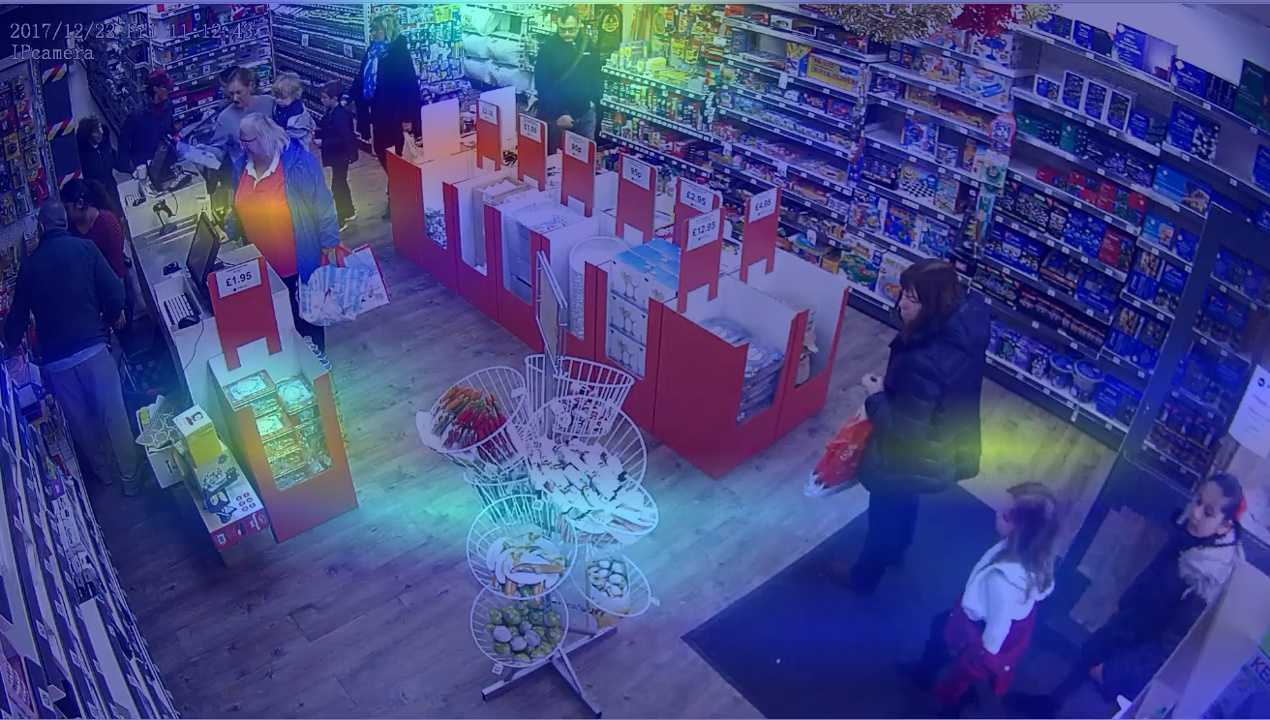
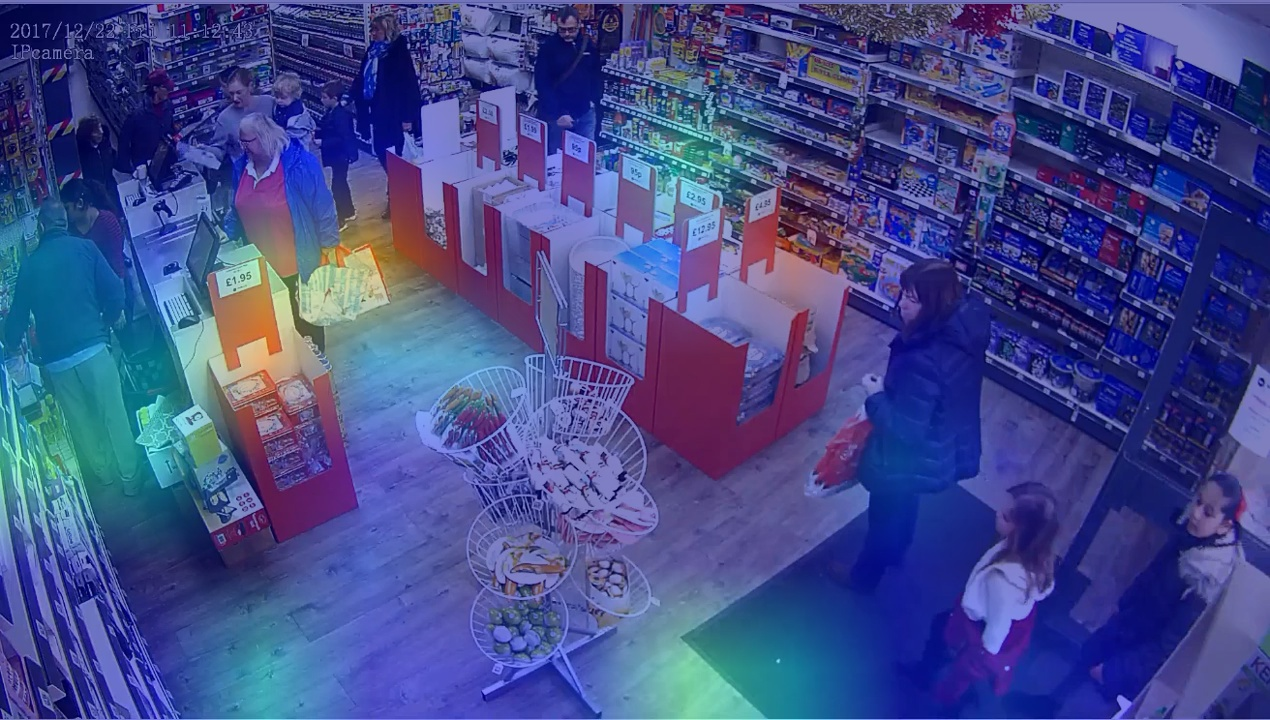
Updated api to return images of heatmap and trayectories

diff --git a/ImageProcessor/Utils/PersonDetector.py b/ImageProcessor/Utils/PersonDetector.py
@@ -102,7 +102,7 @@ class PersonDetector:
     
     def get_detections(self, frame):
         if self.w is None or self.h is None:
-            self.h, self.w, _ = frame.shape
+            self.h, self.w = frame.shape[:2]  
             self.img = frame.copy()
             print(self.h, self.w)
         tracks = self.det_model.track(frame, persist=True, show=False, classes=[0], tracker='bytetrack.yaml', verbose=False)   
@@ -115,7 +115,11 @@ class PersonDetector:
                 # track_id = out.track_id/
                 center = (int((x1 + x2) / 2), int((y1 + y2) / 2))
                 center_feet = (int((x1 + x2) / 2), y2)
-                self.points.append(center)
+                center_feet_flipped = (int((x1 + x2) / 2), self.h - y2)
+                # print(center_feet)
+                self.points.append(center_feet)
+                #draw a point in the cente
+                # cv2.circle(self.img, center_feet, 10, (0, 0, 255), -1)
                 track_id = box.id.int().item()
                 self.paths[track_id].append(center_feet)
                 cv2.putText(frame, str(track_id), (x1, y1), cv2.FONT_HERSHEY_SIMPLEX, 1, (0, 255, 0), 2)
@@ -126,7 +130,8 @@ class PersonDetector:
     def get_common_paths(self):
         # print(self.paths)
         if len(self.paths) == 0:
-            return None
+            return self.img
+        
         paths_list = list(self.paths.values())
 
         # skip every 10 points of each path
@@ -201,58 +206,105 @@ class PersonDetector:
         # for i, path in enumerate(self.paths):
         #     print(f"Path {i+1} is in cluster {labels[i]}")
 
+        return copy_img
+
 
     def get_heatmap(self):
-        print("Headmat")
-        print(len(self.points))
-        if len(self.points) == 0 or self.w is None or self.h is None:
+        # print("Headmat")
+        # print(len(self.points))
+        if self.img is None:
             return None
+        
+        image = self.img.copy()
+        self.h, self.w = image.shape[:2] 
+
+        if len(self.points) == 0 or self.w is None or self.h is None:
+            return image
         
         data = np.array(self.points)
 
         # Define the gri`d size
         bin_size_factor = 100
-        grid_size = [self.h, self.w]
+        # grid_size = [self.h, self.w]
         adjusted_h = int(self.h / bin_size_factor)
         adjusted_w = int(self.w / bin_size_factor)
 
         # Create a 2D histogram
+        # heatmap, xedges, yedges = np.histogram2d(
+        #     data[:, 0], data[:, 1],
+        #     bins=[adjusted_h, adjusted_w],
+        #     range=[[0, self.w], [0, self.h]]
+        # )
+
         heatmap, xedges, yedges = np.histogram2d(
-            data[:, 0], data[:, 1],
-            bins=[adjusted_w, adjusted_h],
-            range=[[0, max(data[:, 0])], [0, max(data[:, 1])]]
+            data[:, 1], data[:, 0],
+            bins=[adjusted_h, adjusted_w],  # Set bins equal to image dimensions
+            range=[[0, self.h], [0, self.w]]  # Ensure range covers the full image
         )
 
-        image = self.img.copy()
+        print("hsize", heatmap.shape)
+        print("imagesize", image.shape)
         heatmap_data = cv2.normalize(heatmap, None, 0, 1, cv2.NORM_MINMAX)
-
-        # Convert heatmap to color map (heatmap is in grayscale format)
         heatmap_colored = cv2.applyColorMap((heatmap_data * 255).astype(np.uint8), cv2.COLORMAP_JET)
 
         # Resize heatmap to match the original image size if necessary
         if heatmap_colored.shape[0] != image.shape[0] or heatmap_colored.shape[1] != image.shape[1]:
+            print("No MATR")
             heatmap_colored = cv2.resize(heatmap_colored, (image.shape[1], image.shape[0]))
 
         # Blend heatmap with original image
         alpha = 0.5  # Transparency level of the heatmap
         overlay = cv2.addWeighted(heatmap_colored, alpha, image, 1 - alpha, 0)
+        # heatmap = np.zeros((self.h, self.w), dtype=np.float32)
+
+        # radius = 20  # Increase this to make the points larger
+        # # Normalize the heatmap
+        # heatmap = cv2.normalize(heatmap, None, 0, 1, cv2.NORM_MINMAX)
+
+        # # Convert heatmap to color map
+        # heatmap_colored = cv2.applyColorMap((heatmap * 255).astype(np.uint8), cv2.COLORMAP_JET)
+
+        # # Optionally overlay the heatmap onto the original image
+        # overlay = cv2.addWeighted(image, 0.6, heatmap_colored, 0.4, 0)
+
+# Draw a circle for each point on the heatmap
+        # for point in self.points:
+        #     x, y = int(point[0]), int(point[1])
+        #     cv2.circle(heatmap, (x, y), radius, 1, thickness=-1)
+        #     # append additional points inside the radius if possible
+        #     for i in range(-radius, radius):
+        #         for j in range(-radius, radius):
+        #             if x + i >= 0 and x + i < self.w and y + j >= 0 and y + j < self.h:
+        #                 self.points.append((x + i, y + j))
+        # for point in data:
+        #     x, y = int(point[0]), int(point[1])
+        #     cv2.circle(heatmap, (x, y), radius, 1, thickness=-1)  # Filled circle
+        #     # append additional points inside the radius if possible
+        #     for i in range(-radius, radius):
+        #         for j in range(-radius, radius):
+        #             if x + i >= 0 and x + i < self.w and y + j >= 0 and y + j < self.h:
+        #                 cv2.circle(heatmap, (x + i, y + j), 1, 1, thickness=-1)
+
+
+        
 
         # Save or show the result
         cv2.imwrite('image_with_heatmap_overlay.jpg', overlay)
+        return overlay
 
         # Plot the heatmap
-        plt.figure(figsize=(8, 6))
-        plt.imshow(heatmap.T, origin='lower', cmap='YlGnBu', interpolation='nearest')
-        plt.colorbar(label='Frequency')
-        plt.xlabel('X coordinate')
-        plt.ylabel('Y coordinate')
-        plt.title('Heatmap of Most Visited Zones') 
-        plt.gca().invert_yaxis()
-        plt.savefig("heatmap.jpg")
-        print("done")
+        # plt.figure(figsize=(8, 6))
+        # plt.imshow(heatmap.T, origin='lower', cmap='YlGnBu', interpolation='nearest')
+        # plt.colorbar(label='Frequency')
+        # plt.xlabel('X coordinate')
+        # plt.ylabel('Y coordinate')
+        # plt.title('Heatmap of Most Visited Zones') 
+        # plt.gca().invert_yaxis()
+        # plt.savefig("heatmap.jpg")
+        # print("done")
 
-        #return heatmap image as numpy array
-        return "done"
+        # #return heatmap image as numpy array
+        # return "done"
 
 
 PersonDetector()

diff --git a/main.py b/main.py
@@ -1,4 +1,4 @@
-from fastapi import FastAPI
+from fastapi import FastAPI, Response
 from ImageProcessor.ImageProcessor import ImageProcessor
 from fastapi.responses import StreamingResponse
 import uvicorn
@@ -19,6 +19,14 @@ def generate_frames(view):
         yield (b'--frame\r\n'
                b'Content-Type: image/jpeg\r\n\r\n' + frame_bytes + b'\r\n')
 
+def get_heatmap():
+    frame_bytes = image_processor.get_heatmap()
+    if frame_bytes is None:
+        return None
+    yield (b'--frame\r\n'
+              b'Content-Type: image/jpeg\r\n\r\n' + frame_bytes + b'\r\n')
+    # return image_processor.get_heatmap()
+
 @app.get("/video_feed")
 async def video_feed():
     return StreamingResponse(generate_frames(1), media_type='multipart/x-mixed-replace; boundary=frame')
@@ -29,11 +37,15 @@ async def aisle_view():
 
 @app.get("/get_heatmap")
 async def get_heatmap():
-    return image_processor.get_heatmap()
+    # return image_processor.get_heatmap as encoded image
 
-@app.get("/get_common_paths")
-async def get_common_paths():
-    return image_processor.get_common_paths()
+    result = image_processor.get_heatmap()
+    return Response(content=result, media_type="image/jpeg")
+
+@app.get("/get_trajectories")
+async def get_trajectories():
+    result = image_processor.get_common_paths()
+    return Response(content=result, media_type="image/jpeg")
 
 @app.get("/")
 def read_root():

diff --git a/ImageProcessor/ImageProcessor.py b/ImageProcessor/ImageProcessor.py
@@ -9,8 +9,7 @@ from ImageProcessor.Utils.PersonDetector import PersonDetector
 
 class ImageProcessor():
     def __init__(self, camera_index=1) -> None:
-        # self.cap = cv2.VideoCapture(0)
-        self.cap = cv2.VideoCapture("videos/store.mp4")
+        self.cap = cv2.VideoCapture("videos/x.mp4")
         self.person_detector = PersonDetector()
         
     def get_frame(self):
@@ -28,7 +27,6 @@ class ImageProcessor():
         if not success:
             return None
         
-        # write text in image
         frame = self.person_detector.get_detections(frame)
         ret, buffer = cv2.imencode('.jpg', frame)
         if not ret:
@@ -36,8 +34,16 @@ class ImageProcessor():
         return buffer.tobytes()  
     
     def get_heatmap(self):
-        return self.person_detector.get_heatmap()
+        frame = self.person_detector.get_heatmap()
+        ret, buffer = cv2.imencode('.jpg', frame)
+        if not ret:
+            return None
+        return buffer.tobytes()
     
     def get_common_paths(self):
-        return self.person_detector.get_common_paths()
+        image = self.person_detector.get_common_paths()
+        ret, buffer = cv2.imencode('.jpg', image)
+        if not ret:
+            return None
+        return buffer.tobytes() 
     
